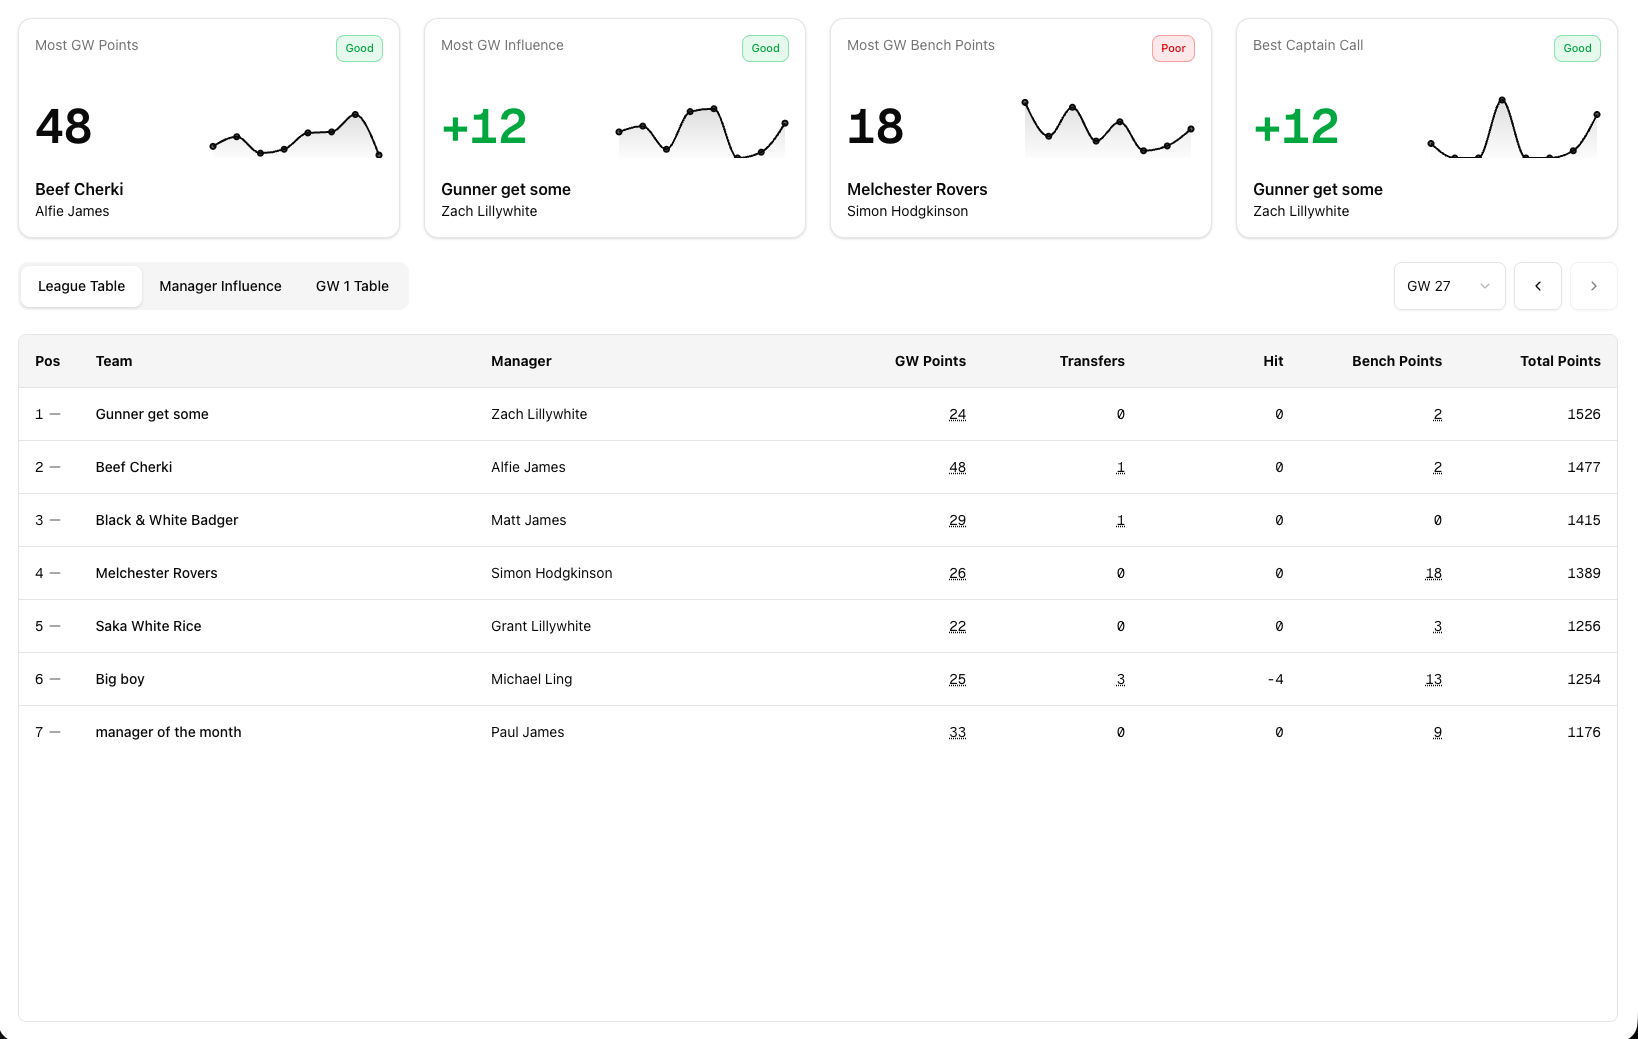
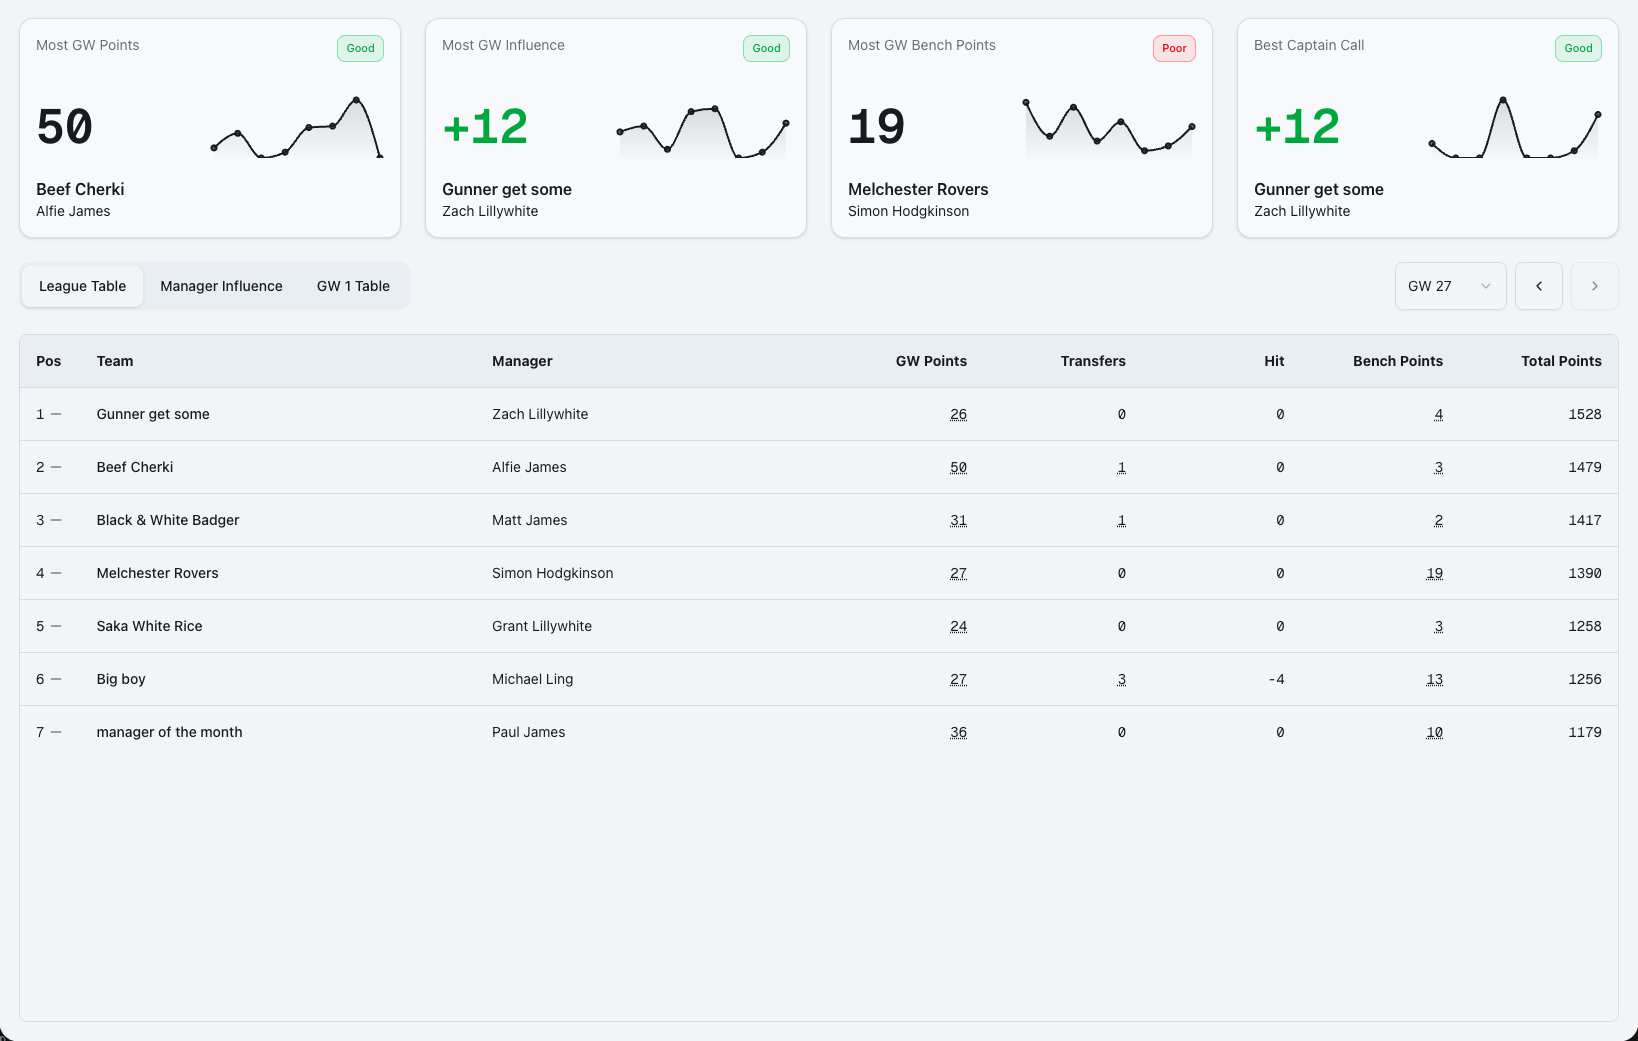
Polish landing light mode and align dashboard header theming

diff --git a/src/app/page.tsx b/src/app/page.tsx
@@ -1,5 +1,4 @@
 import Link from "next/link";
-import Image from "next/image";
 import {
   BarChart3,
   Check,
@@ -89,7 +88,7 @@ export default async function Home() {
 
   return (
     <div id="top" className="min-h-svh bg-background text-foreground">
-      <header className="sticky top-0 z-40 border-b border-[#1d1d1e] bg-[#0a0a0a]">
+      <header className="sticky top-0 z-40 border-b border-[#d6dce7] bg-[#f2f4f8] dark:border-[#1d1d1e] dark:bg-[#0a0a0a]">
         <div className="px-4 md:px-10 lg:px-20">
           <div className="mx-auto flex h-[72px] w-full max-w-[1282px] items-center justify-between">
             <a
@@ -109,26 +108,26 @@ export default async function Home() {
               <nav className="hidden items-center gap-2 text-[14px] text-muted-foreground md:flex">
                 <a
                   href="#features"
-                  className="inline-flex h-8 cursor-pointer items-center rounded-[6px] px-3.5 transition-colors hover:bg-[#17181a] hover:text-foreground"
+                  className="inline-flex h-8 cursor-pointer items-center rounded-[6px] px-3.5 transition-colors hover:bg-[#e3e8f1] hover:text-foreground dark:hover:bg-[#17181a]"
                 >
                   Features
                 </a>
                 <a
                   href="#pricing"
-                  className="inline-flex h-8 cursor-pointer items-center rounded-[6px] px-3.5 transition-colors hover:bg-[#17181a] hover:text-foreground"
+                  className="inline-flex h-8 cursor-pointer items-center rounded-[6px] px-3.5 transition-colors hover:bg-[#e3e8f1] hover:text-foreground dark:hover:bg-[#17181a]"
                 >
                   Pricing
                 </a>
                 <button
                   type="button"
-                  className="inline-flex h-8 cursor-pointer items-center rounded-[6px] px-3.5 transition-colors hover:bg-[#17181a] hover:text-foreground"
+                  className="inline-flex h-8 cursor-pointer items-center rounded-[6px] px-3.5 transition-colors hover:bg-[#e3e8f1] hover:text-foreground dark:hover:bg-[#17181a]"
                 >
                   Contact
                 </button>
               </nav>
               <Link
                 href={primaryCtaHref}
-                className="inline-flex h-8 items-center rounded-[6px] bg-primary px-3 text-[14px] font-semibold text-primary-foreground transition-opacity hover:opacity-90"
+                className="inline-flex h-8 items-center rounded-[6px] bg-primary px-3 text-[14px] font-semibold text-primary-foreground transition-opacity hover:opacity-90 dark:bg-[#f2f4f8] dark:text-[#171a20]"
               >
                 {primaryCtaLabel}
               </Link>
@@ -139,11 +138,11 @@ export default async function Home() {
       </header>
 
       <main>
-        <section className="relative overflow-hidden border-b border-[#1d1d1e] bg-[linear-gradient(to_bottom,#08090a_50%,#7f8288_100%)]">
+        <section className="relative overflow-hidden border-b border-[#d6dce7] bg-[linear-gradient(to_bottom,#f2f4f8_50%,#e3e8f1_100%)] dark:border-[#1d1d1e] dark:bg-[linear-gradient(to_bottom,#08090a_50%,#7f8288_100%)]">
           <div className="px-4 md:px-10 lg:px-20">
             <div className="mx-auto w-full max-w-[1282px] pb-24 pt-12 sm:pb-28 sm:pt-32">
             <div className="max-w-[860px]">
-              <span className="mb-8 inline-flex items-center rounded-full border border-border/70 bg-background/75 px-4 py-1.5 text-[11px] font-medium text-[#83878e] backdrop-blur sm:text-sm">
+              <span className="mb-8 inline-flex items-center rounded-full border border-[#d1d7e2] bg-[#eef2f8]/85 px-4 py-1.5 text-[11px] font-medium text-[#5f6470] backdrop-blur dark:border-border/70 dark:bg-background/75 dark:text-[#83878e] sm:text-sm">
                 Built for FPL managers who want an edge every gameweek
               </span>
               <h1 className="text-balance text-4xl font-semibold tracking-[-0.02em] leading-[1.05] sm:text-6xl sm:leading-[1.03]">
@@ -151,15 +150,15 @@ export default async function Home() {
                 <br />
                 Every change explained.
               </h1>
-              <p className="mt-6 max-w-2xl text-pretty text-sm leading-relaxed text-[#83878e] sm:text-base sm:leading-[1.55]">
+              <p className="mt-6 max-w-2xl text-pretty text-sm leading-relaxed text-[#5f6470] dark:text-[#83878e] sm:text-base sm:leading-[1.55]">
                 Live, gameweek-by-gameweek insights that show exactly how transfers,
                 chips, and captain calls impact your mini-league.
               </p>
             </div>
 
             <div className="mt-12 sm:mt-14">
-              <div className="relative mx-auto w-full max-w-[360px] md:max-w-[1320px]">
-                <div className="overflow-hidden rounded-2xl border border-border/70 shadow-[0_70px_140px_-55px_rgba(2,6,23,0.8)]">
+              <div className="relative isolate mx-auto w-full max-w-[360px] md:max-w-[1320px]">
+                <div className="overflow-hidden rounded-2xl border border-border/70 shadow-[0_26px_58px_-24px_rgba(39,52,77,0.3)] dark:shadow-[0_70px_140px_-55px_rgba(2,6,23,0.8)]">
                   <div className="w-full md:hidden">
                     {/* eslint-disable-next-line @next/next/no-img-element */}
                     <img
@@ -190,18 +189,18 @@ export default async function Home() {
                     />
                   </div>
                 </div>
-                <div className="pointer-events-none absolute inset-x-[8%] -bottom-10 h-20 rounded-full bg-black/30 blur-2xl dark:bg-black/50" />
+                <div className="pointer-events-none absolute inset-x-[8%] -bottom-12 -z-10 h-24 rounded-full bg-slate-500/30 blur-2xl dark:bg-black/50" />
               </div>
             </div>
             </div>
           </div>
         </section>
 
-        <section className="bg-[#08090a] py-16 sm:py-20">
+        <section className="bg-[#f2f4f8] py-16 dark:bg-[#08090a] sm:py-20">
           <div className="px-4 md:px-10 lg:px-20">
             <div className="mx-auto flex w-full max-w-[1282px] flex-col gap-10 sm:gap-16">
               <section>
-                <h2 className="max-w-[1100px] pt-2 text-balance text-3xl font-semibold leading-[1.12] tracking-tight text-[#83878e] sm:pt-4 sm:text-5xl sm:leading-[1.08]">
+                <h2 className="max-w-[1100px] pt-2 text-balance text-3xl font-semibold leading-[1.12] tracking-tight text-[#5f6470] dark:text-[#83878e] sm:pt-4 sm:text-5xl sm:leading-[1.08]">
                   <span className="text-foreground">Your league table, upgraded.</span>{" "}
                   Go beyond points totals. GameweekIQ combines classic standings with
                   decision-level intelligence so you can quickly understand who gained,
@@ -214,15 +213,17 @@ export default async function Home() {
                   <article
                     key={title}
                     className={`p-6 sm:min-h-[460px] sm:p-10 ${
-                      index < pillars.length - 1 ? "sm:border-r sm:border-[#1d1d1e]" : ""
+                      index < pillars.length - 1
+                        ? "sm:border-r sm:border-[#d6dce7] dark:sm:border-[#1d1d1e]"
+                        : ""
                     }`}
                   >
-                    <div className="h-88 rounded-lg border border-[#1d1d1e] bg-[#0d0f11]" />
-                    <Icon className="mt-6 h-6 w-6 text-[#6a6f76]" strokeWidth={1.8} />
+                    <div className="h-88 rounded-lg border border-[#d6dce7] bg-[#e9edf4] dark:border-[#1d1d1e] dark:bg-[#0d0f11]" />
+                    <Icon className="mt-6 h-6 w-6 text-[#5f6470] dark:text-[#6a6f76]" strokeWidth={1.8} />
                     <h3 className="mt-4 text-[19px] font-semibold tracking-tight text-foreground sm:text-[20px]">
                       {title}
                     </h3>
-                    <p className="mt-3 text-base leading-relaxed text-[#83878e]">
+                    <p className="mt-3 text-base leading-relaxed text-[#5f6470] dark:text-[#83878e]">
                       {description}
                     </p>
                   </article>
@@ -231,7 +232,7 @@ export default async function Home() {
             </div>
           </div>
 
-          <div className="my-16 h-px w-full bg-[#1d1d1e] sm:my-20" />
+          <div className="my-16 h-px w-full bg-[#d6dce7] dark:bg-[#1d1d1e] sm:my-20" />
 
           <section id="features" className="scroll-mt-28 px-4 pb-16 md:px-10 lg:px-20">
             <div className="mx-auto w-full max-w-[1282px]">
@@ -239,7 +240,7 @@ export default async function Home() {
                 <h3 className="text-balance text-4xl font-semibold tracking-tight text-foreground sm:text-5xl sm:leading-[1.08]">
                   Everything you need to out-think your mini-league.
                 </h3>
-                <p className="mt-5 text-pretty text-base leading-relaxed text-[#83878e] sm:text-lg">
+                <p className="mt-5 text-pretty text-base leading-relaxed text-[#5f6470] dark:text-[#83878e] sm:text-lg">
                   Focused tools built around gameweek decisions, so you can spot
                   <br className="hidden sm:block" />
                   momentum shifts early and act with confidence.
@@ -252,10 +253,10 @@ export default async function Home() {
                   return (
                     <article
                       key={feature}
-                      className="flex h-[240px] w-full max-w-[420px] flex-col rounded-xl border border-[#1d1d1e] bg-[#0d0f11] p-6 sm:h-[255px] lg:h-[273px] lg:w-[320px]"
+                      className="flex h-[240px] w-full max-w-[420px] flex-col rounded-xl border border-[#d6dce7] bg-[#e9edf4] p-6 dark:border-[#1d1d1e] dark:bg-[#0d0f11] sm:h-[255px] lg:h-[273px] lg:w-[320px]"
                     >
-                      <div className="inline-flex h-12 w-12 items-center justify-center rounded-md bg-[#1b1c1d]">
-                        <Icon className="h-6 w-6 text-white" strokeWidth={2} />
+                      <div className="inline-flex h-12 w-12 items-center justify-center rounded-md bg-[#dde3ec] dark:bg-[#1b1c1d]">
+                        <Icon className="h-6 w-6 text-[#171a20] dark:text-white" strokeWidth={2} />
                       </div>
                       <p className="mt-auto pt-8 text-pretty text-[19px] leading-[1.28] tracking-tight text-foreground sm:text-[20px]">
                         {feature}
@@ -268,7 +269,7 @@ export default async function Home() {
             </div>
           </section>
 
-          <div className="my-16 h-px w-full bg-[#1d1d1e] sm:my-20" />
+          <div className="my-16 h-px w-full bg-[#d6dce7] dark:bg-[#1d1d1e] sm:my-20" />
 
           <section id="pricing" className="scroll-mt-28 px-4 pb-28 md:px-10 lg:px-20">
             <div className="mx-auto w-full max-w-[1282px]">
@@ -276,7 +277,7 @@ export default async function Home() {
                 <h3 className="text-balance text-4xl font-semibold tracking-tight text-foreground sm:text-5xl sm:leading-[1.08]">
                   Pricing
                 </h3>
-                <p className="mt-5 text-pretty text-base leading-relaxed text-[#83878e] sm:text-lg">
+                <p className="mt-5 text-pretty text-base leading-relaxed text-[#5f6470] dark:text-[#83878e] sm:text-lg">
                   Start free today while GameweekIQ is in beta.{" "}
                   <br className="hidden sm:block" />
                   Premium is on the roadmap for managers who want deeper
@@ -288,25 +289,25 @@ export default async function Home() {
                 {pricingTiers.map((tier) => (
                   <article
                     key={tier.name}
-                    className={`flex min-h-[560px] flex-col rounded-2xl border bg-[#0d0f11] ${
+                    className={`flex min-h-[560px] flex-col rounded-2xl border bg-[#e9edf4] dark:bg-[#0d0f11] ${
                       tier.highlighted
-                        ? "border-[#2f3440] shadow-[0_18px_40px_-28px_rgba(166,186,255,0.45)]"
-                        : "border-[#1d1d1e]"
+                        ? "border-[#bcc5d3] shadow-[0_18px_40px_-28px_rgba(44,51,65,0.2)] dark:border-[#2f3440] dark:shadow-[0_18px_40px_-28px_rgba(166,186,255,0.45)]"
+                        : "border-[#d6dce7] dark:border-[#1d1d1e]"
                     }`}
                   >
-                    <div className="border-b border-[#1d1d1e] p-7">
+                    <div className="border-b border-[#d6dce7] p-7 dark:border-[#1d1d1e]">
                       <h4 className="text-3xl font-semibold tracking-tight text-foreground">
                         {tier.name}
                       </h4>
                       <p className="mt-3 text-2xl font-medium text-foreground">{tier.price}</p>
-                      <p className="mt-2 text-sm text-[#83878e]">{tier.subtitle}</p>
+                      <p className="mt-2 text-sm text-[#5f6470] dark:text-[#83878e]">{tier.subtitle}</p>
                     </div>
 
                     <ul className="flex-1 space-y-3 p-7">
                       {tier.features.map((feature) => (
-                        <li key={feature} className="flex items-start gap-3 text-[15px] text-[#cfd2d8]">
-                          <span className="mt-0.5 inline-flex h-5 w-5 shrink-0 items-center justify-center rounded-full bg-[#2f3540]">
-                            <Check className="h-3.5 w-3.5 text-[#d5defd]" strokeWidth={2.5} />
+                        <li key={feature} className="flex items-start gap-3 text-[15px] text-[#434955] dark:text-[#cfd2d8]">
+                          <span className="mt-0.5 inline-flex h-5 w-5 shrink-0 items-center justify-center rounded-full bg-[#cfd8e6] dark:bg-[#2f3540]">
+                            <Check className="h-3.5 w-3.5 text-[#2f3949] dark:text-[#d5defd]" strokeWidth={2.5} />
                           </span>
                           <span>{feature}</span>
                         </li>
@@ -323,7 +324,7 @@ export default async function Home() {
                         className={`inline-flex h-10 w-full items-center justify-center rounded-md text-sm font-semibold transition-all ${
                           tier.highlighted
                             ? "bg-white text-black hover:bg-white/90"
-                            : "bg-[#1c2026] text-foreground hover:bg-[#232832]"
+                            : "bg-[#e2e7ef] text-foreground hover:bg-[#d6dde8] dark:bg-[#1c2026] dark:hover:bg-[#232832]"
                         }`}
                       >
                         {tier.cta === "Get started" ? primaryCtaLabel : tier.cta}

diff --git a/src/app/globals.css b/src/app/globals.css
@@ -45,31 +45,31 @@
 
 :root {
   --radius: 0.625rem;
-  --background: oklch(1 0 0);
-  --foreground: oklch(0.145 0 0);
-  --card: oklch(1 0 0);
-  --card-foreground: oklch(0.145 0 0);
-  --popover: oklch(1 0 0);
-  --popover-foreground: oklch(0.145 0 0);
+  --background: #f2f4f8;
+  --foreground: #171a20;
+  --card: #f7f9fc;
+  --card-foreground: #171a20;
+  --popover: #f7f9fc;
+  --popover-foreground: #171a20;
   --primary: oklch(0.205 0 0);
   --primary-foreground: oklch(0.985 0 0);
-  --secondary: oklch(0.97 0 0);
-  --secondary-foreground: oklch(0.205 0 0);
-  --muted: oklch(0.97 0 0);
-  --muted-foreground: oklch(0.556 0 0);
-  --accent: oklch(0.97 0 0);
-  --accent-foreground: oklch(0.205 0 0);
+  --secondary: #e9edf4;
+  --secondary-foreground: #171a20;
+  --muted: #e9edf4;
+  --muted-foreground: #676d77;
+  --accent: #e9edf4;
+  --accent-foreground: #171a20;
   --destructive: oklch(0.577 0.245 27.325);
-  --border: oklch(0.922 0 0);
-  --input: oklch(0.922 0 0);
+  --border: #d6dce7;
+  --input: #d6dce7;
   --ring: oklch(0.708 0 0);
   --chart-1: oklch(0.646 0.222 41.116);
   --chart-2: oklch(0.6 0.118 184.704);
   --chart-3: oklch(0.398 0.07 227.392);
   --chart-4: oklch(0.828 0.189 84.429);
   --chart-5: oklch(0.769 0.188 70.08);
-  --sidebar: oklch(0.985 0 0);
-  --sidebar-foreground: oklch(0.145 0 0);
+  --sidebar: #f2f4f8;
+  --sidebar-foreground: #171a20;
   --sidebar-primary: oklch(0.205 0 0);
   --sidebar-primary-foreground: oklch(0.985 0 0);
   --sidebar-accent: oklch(0.97 0 0);

diff --git a/src/app/(dashboard)/[leagueID]/DashboardClient.tsx b/src/app/(dashboard)/[leagueID]/DashboardClient.tsx
@@ -580,7 +580,7 @@ export default function DashboardClient({
   return (
     <div className="mobile-landscape-scroll-shell flex min-h-svh flex-col sm:h-svh sm:min-h-svh sm:overflow-hidden">
       {/* Header with selectors */}
-      <header className="px-4 pt-4 pb-0 sm:border-b sm:border-[#1d1d1e] sm:px-4 sm:pt-0 md:px-5">
+      <header className="px-4 pt-4 pb-0 sm:border-b sm:border-border sm:px-4 sm:pt-0 md:px-5">
         <div className="flex flex-col gap-0">
           {/* Top row: Brand + controls */}
           <div className="flex h-8 w-full items-center justify-between gap-3 sm:h-[72px]">
@@ -644,7 +644,7 @@ export default function DashboardClient({
             </div>
           </div>
 
-          <div className="-mx-4 my-4 border-b border-[#1d1d1e] sm:hidden md:-mx-5" />
+          <div className="-mx-4 my-4 border-b border-border sm:hidden md:-mx-5" />
 
           {/* Mobile row: League selector + GW selector */}
           <div className="w-full pb-0 sm:hidden">
